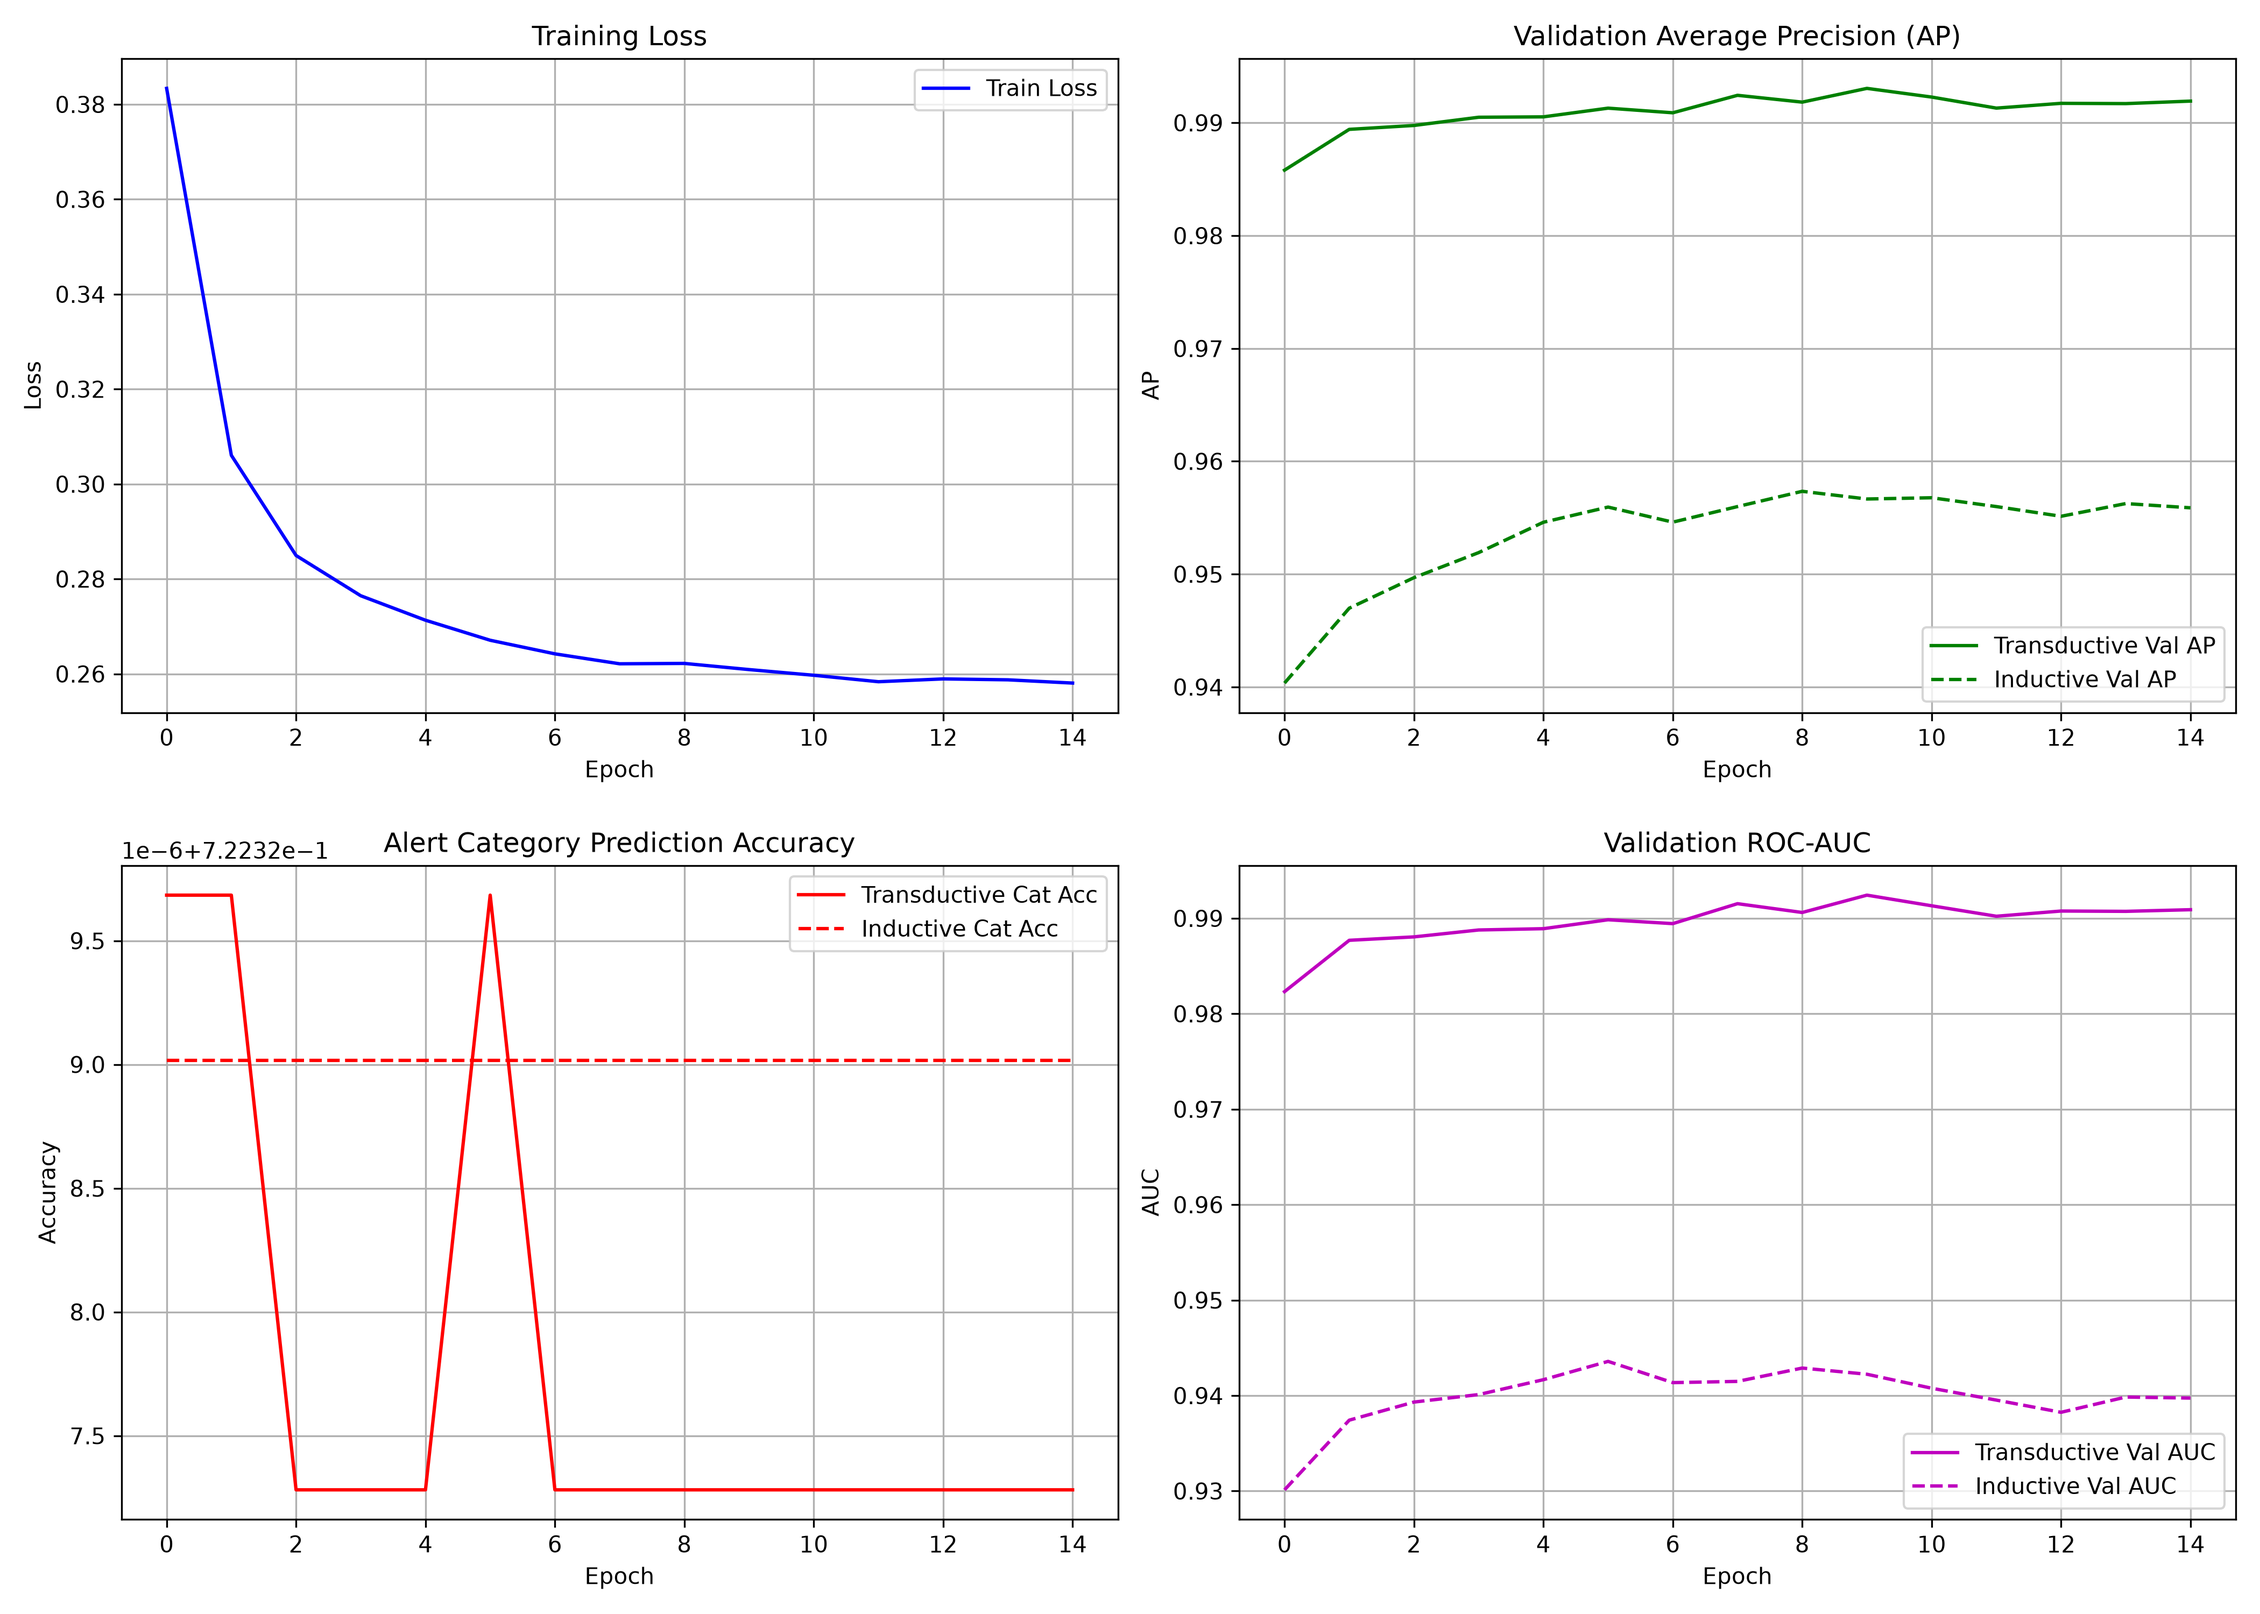
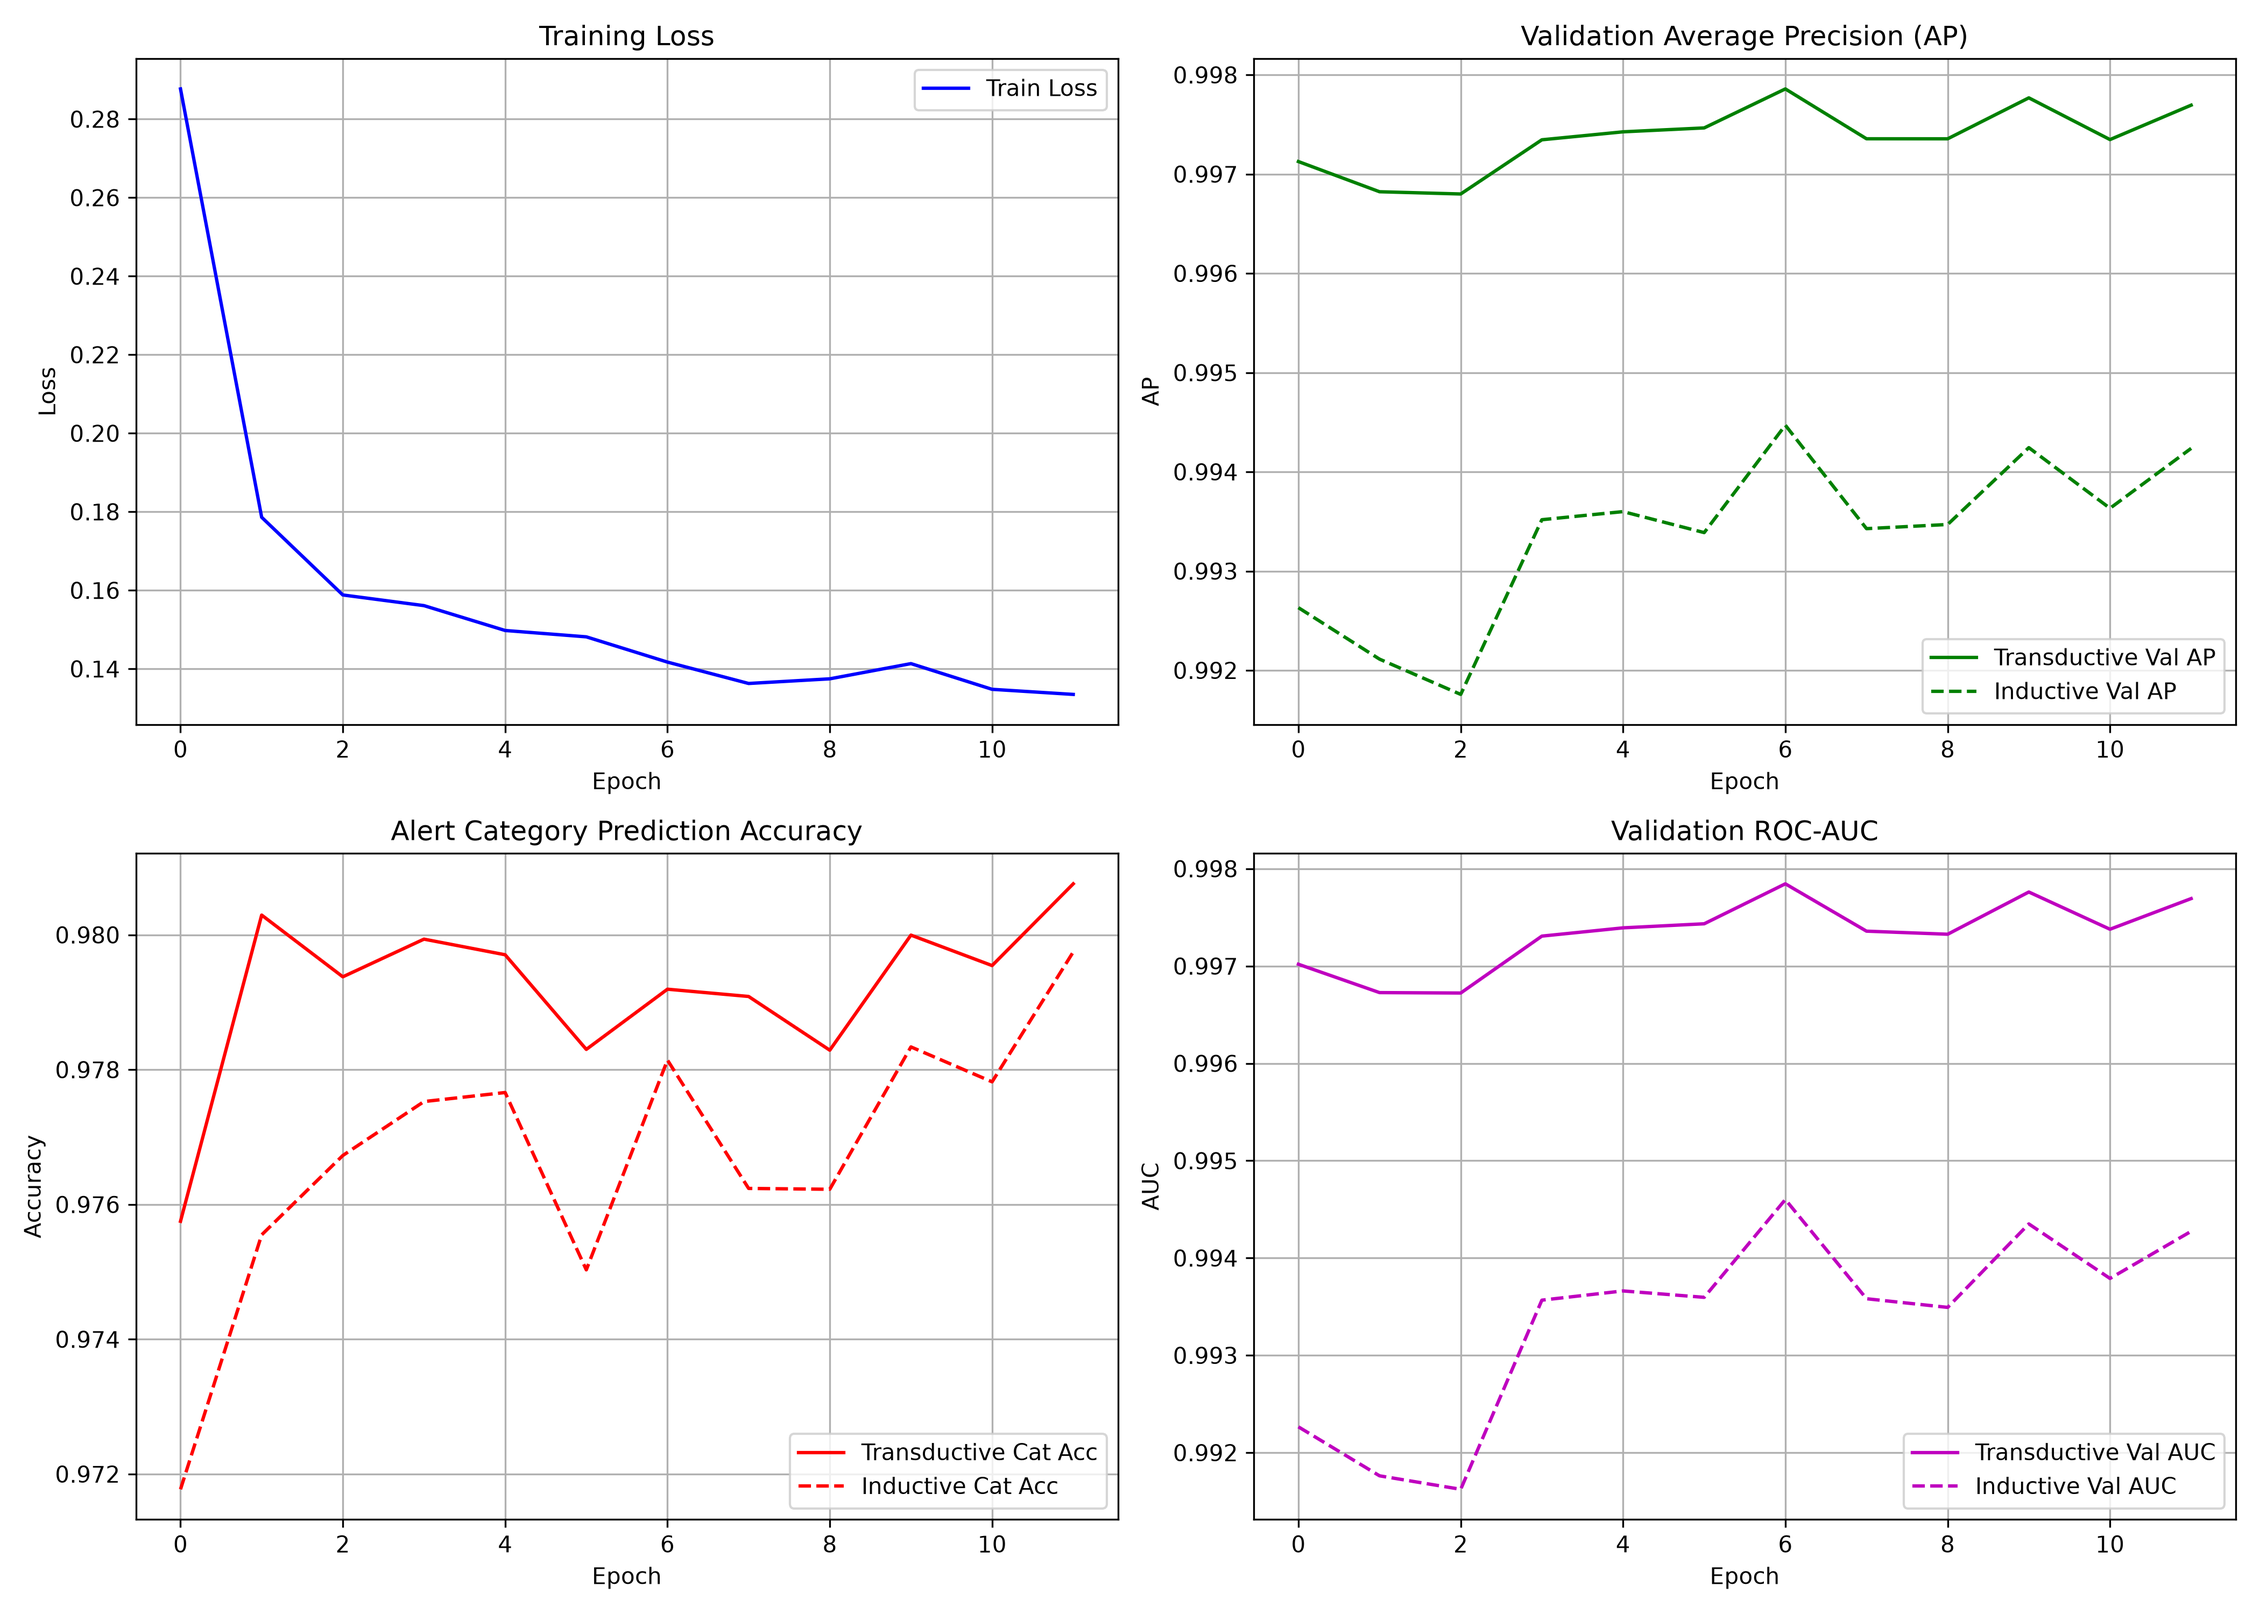
docs: encoder final held-out test results with the three caveats
Transductive AUC 0.9972 / macro F1 0.8405; inductive AUC 0.9626 / macro F1
0.9551. Recorded that Recon's 0.897 is host memorisation (one carrier host in
both splits), that macro F1 not accuracy is the honest figure, and that
inductive AUC dropped 0.032 from validation to test.

diff --git a/claude_latest_analysis/19_session_log.md b/claude_latest_analysis/19_session_log.md
@@ -640,3 +640,43 @@ different path serves them or the feature is inert.
 
 Not touching it: deleting or wiring up UI behaviour is a product decision,
 not a bug fix, and I would be guessing at the intent.
+
+### 20:25 — ENCODER DONE. Held-out test results (scored once).
+
+Early stopping fired after 12 epochs; best = **epoch 6**. `val_ap` and the
+combined criterion agreed, so the auto-saved checkpoint is the right one.
+
+**Transductive (hosts seen in training):**
+
+| | |
+|---|---|
+| Link Prediction AUC / AP | **0.9972 / 0.9973** |
+| MRR | 0.9870 |
+| Category Accuracy | 0.9740 |
+| **Category Macro F1** | **0.8405** |
+
+per-class accuracy: Benign 0.984 · C2 0.816 · Impact 1.000 ·
+**InitialAccess 0.514** · Recon 0.897
+per-class precision: Benign 0.989 · C2 0.874 · Impact 0.980 ·
+**InitialAccess 0.379** · Recon 0.999
+
+**Inductive (unseen hosts):** AUC **0.9626**, AP 0.9617, Macro F1 **0.9551**
+
+### Three caveats these numbers need
+
+1. **Recon 0.897 is host memorisation, not detection.** Its single carrier
+   host (172.16.0.1) is in both train and test, so the transductive score is
+   recognising that host. Precision 0.9995 off one source is the signature.
+   Do not report it as reconnaissance-detection capability.
+2. **Quote macro F1 (0.8405), not accuracy (0.9740).** The latter is ~90%
+   Benign. InitialAccess drags macro down: 0.514 accuracy, **0.379
+   precision** — consistent with it being ~half Infiltration, which a tree
+   also cannot detect (0.278 recall).
+3. **Inductive AUC fell 0.9946 (val) → 0.9626 (test).** A 0.032 drop. Still
+   strong, but the validation figure was optimistic; the inductive test set is
+   129k interactions from different captures.
+
+Worth noting inductive macro F1 (0.9551) *exceeds* transductive (0.8405) —
+almost certainly a class-mix difference in the small inductive test set, not
+better generalisation. Another reason to read macro F1 alongside the
+composition, not alone.
